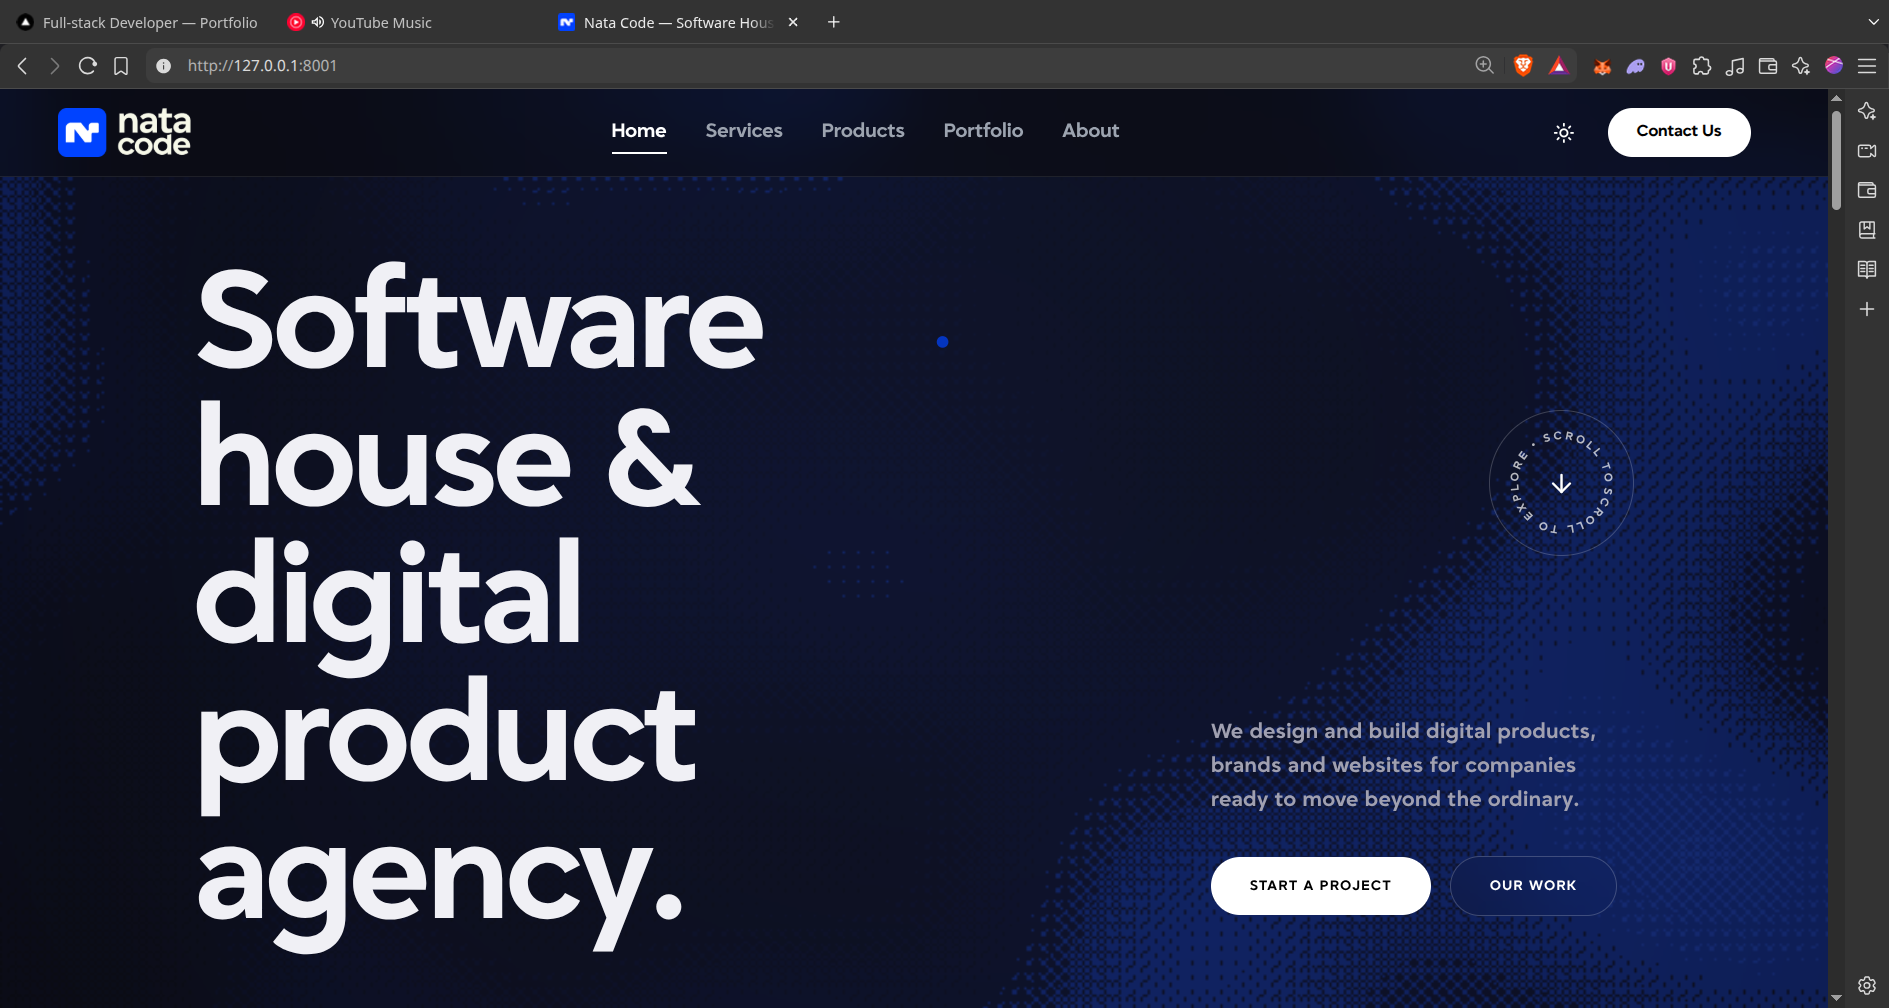
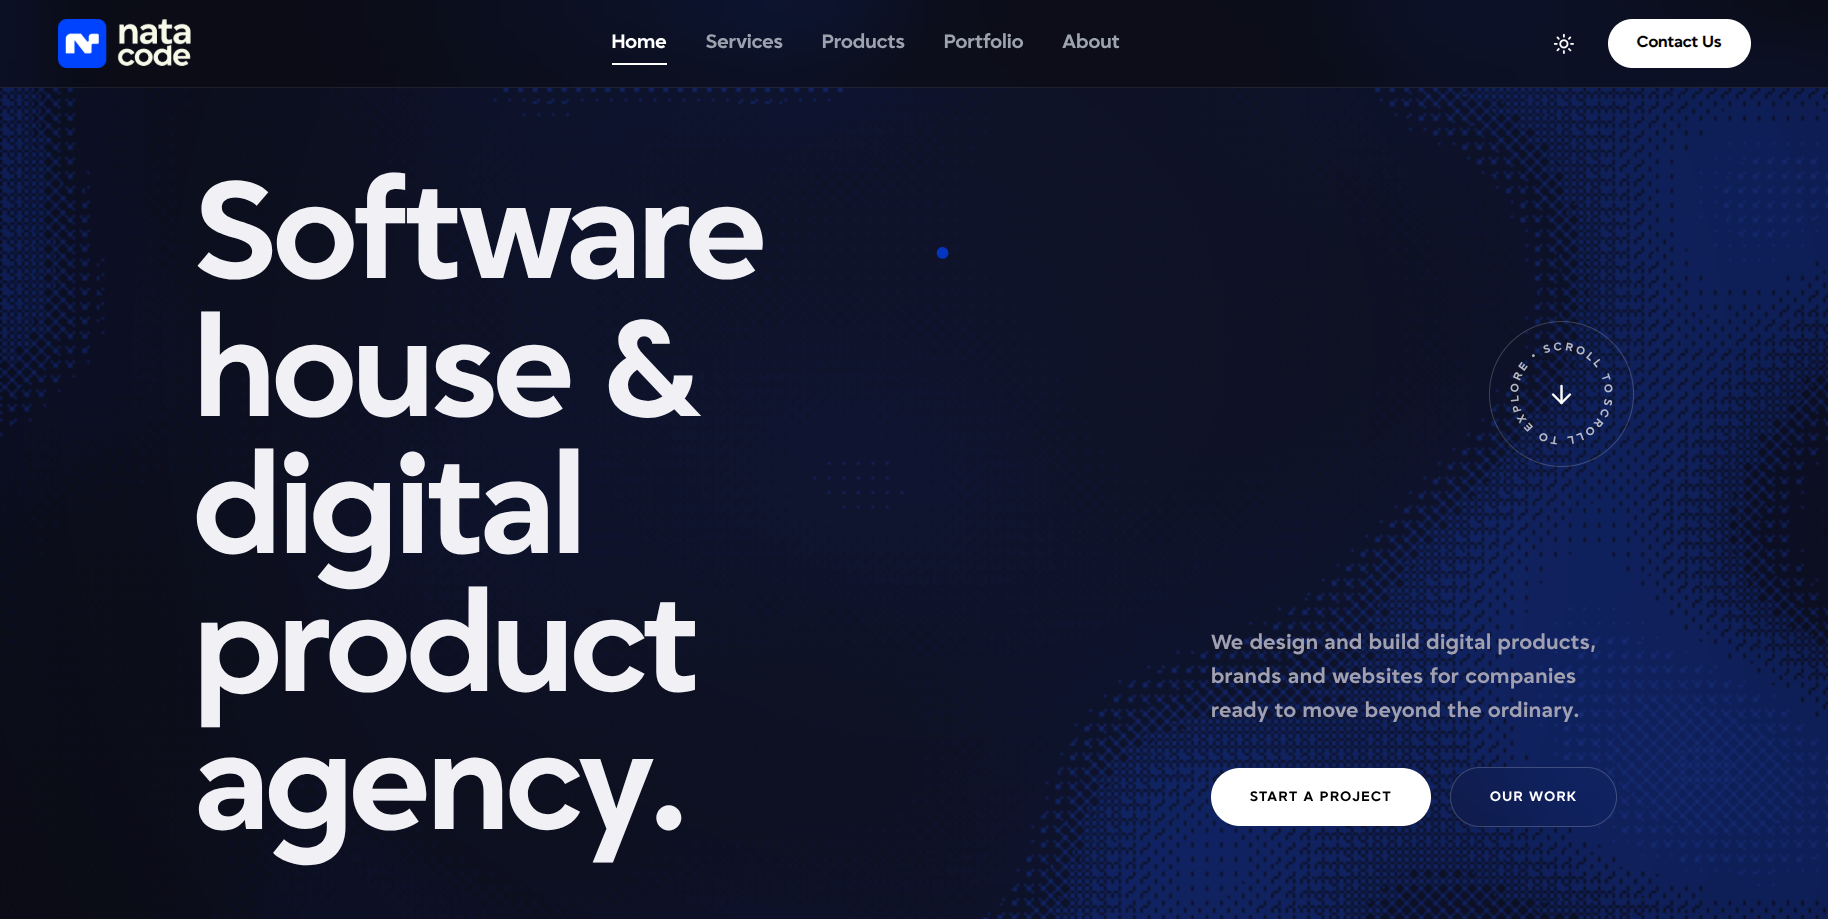
feat(work): present every project plate in a minimal browser frame
Crop the browser chrome and rounded borders baked into the Nata Code,
Acrylico, and Timnas screenshots so the frame is the only chrome.

diff --git a/app/work/[slug]/page.tsx b/app/work/[slug]/page.tsx
@@ -1,9 +1,9 @@
 import type { Metadata } from "next";
-import Image from "next/image";
 import Link from "next/link";
 import { notFound } from "next/navigation";
 import { BouncyLine } from "@/components/public/bouncy-line";
 import { JsonLd } from "@/components/public/json-ld";
+import { ProjectFrame } from "@/components/public/project-frame";
 import { Reveal } from "@/components/public/reveal";
 import { SiteFooter } from "@/components/public/site-footer";
 import { SiteHeader } from "@/components/public/site-header";
@@ -84,6 +84,14 @@ export default async function ProjectPage({
   );
 
   const siteUrl = getSiteUrl();
+  const siteHost = new URL(siteUrl).hostname;
+  const frameLabel = !project.live_url
+    ? "Private deployment"
+    : project.live_url.startsWith("/")
+      ? siteHost === "localhost"
+        ? "On this site"
+        : siteHost
+      : new URL(project.live_url).hostname;
   const technicalHighlights = parseTechnicalHighlights(
     project.technical_decisions,
   );
@@ -271,23 +279,20 @@ export default async function ProjectPage({
         {coverUrl && (
           <section className="mx-auto max-w-[1440px] px-5 sm:px-6 md:px-10">
             <Reveal>
-              <div className="group relative overflow-hidden border border-border bg-[#fafafa]">
-                <div className="relative w-full overflow-hidden">
-                  <Image
-                    src={coverUrl}
-                    alt={project.title}
-                    width={1800}
-                    height={1125}
-                    className="w-full h-auto object-contain transition-transform duration-700 ease-out group-hover:scale-[1.012]"
-                    sizes="(max-width: 1440px) 100vw, 1440px"
-                    priority
-                  />
-                </div>
-                <div className="flex flex-wrap items-center justify-between gap-2 border-t border-border px-4 py-2.5 sm:px-5 sm:py-3 text-[11px] font-medium tracking-[0.2em] uppercase text-muted">
-                  <span>Plate 01 — Overview</span>
-                  <span className="truncate max-w-[200px] sm:max-w-none">{project.title}</span>
-                </div>
-              </div>
+              <ProjectFrame
+                src={coverUrl}
+                alt={project.title}
+                label={frameLabel}
+                priority
+                footer={
+                  <div className="flex flex-wrap items-center justify-between gap-2 border-t border-border px-4 py-2.5 sm:px-5 sm:py-3 text-[11px] font-medium tracking-[0.2em] uppercase text-muted">
+                    <span>Plate 01 — Overview</span>
+                    <span className="truncate max-w-[200px] sm:max-w-none">
+                      {project.title}
+                    </span>
+                  </div>
+                }
+              />
             </Reveal>
           </section>
         )}
@@ -452,18 +457,11 @@ export default async function ProjectPage({
                     const plateNumber = String(idx + 2).padStart(2, "0");
                     return (
                       <figure key={m.id} className="group">
-                        <div className="relative overflow-hidden border border-border bg-[#fafafa]">
-                          <div className="relative w-full overflow-hidden">
-                            <Image
-                              src={url}
-                              alt={m.caption ?? project.title}
-                              width={1800}
-                              height={1125}
-                              className="w-full h-auto object-contain transition-transform duration-700 ease-out group-hover:scale-[1.012]"
-                              sizes="(max-width: 1440px) 100vw, 1440px"
-                            />
-                          </div>
-                        </div>
+                        <ProjectFrame
+                          src={url}
+                          alt={m.caption ?? project.title}
+                          label={frameLabel}
+                        />
                         {m.caption && (
                           <figcaption className="mt-3 sm:mt-4 flex flex-col sm:flex-row sm:items-baseline justify-between gap-1.5 sm:gap-4 border-b border-border pb-3 sm:pb-4 text-xs tracking-normal text-muted">
                             <span className="font-medium uppercase tracking-[0.2em] text-foreground shrink-0">

diff --git a/components/public/project-frame.tsx b/components/public/project-frame.tsx
@@ -1,0 +1,62 @@
+import Image from "next/image";
+import type { ReactNode } from "react";
+
+interface ProjectFrameProps {
+  src: string;
+  alt: string;
+  /** Address shown in the frame bar — a real hostname or a plain status. */
+  label: string;
+  footer?: ReactNode;
+  priority?: boolean;
+}
+
+const WINDOW_CONTROLS = (
+  <svg
+    width="36"
+    height="8"
+    viewBox="0 0 36 8"
+    fill="none"
+    aria-hidden="true"
+    className="shrink-0 text-neutral-300"
+  >
+    <circle cx="4" cy="4" r="3.5" fill="currentColor" />
+    <circle cx="18" cy="4" r="3.5" fill="currentColor" />
+    <circle cx="32" cy="4" r="3.5" fill="currentColor" />
+  </svg>
+);
+
+/**
+ * Presents a product screenshot inside a minimal browser frame so every
+ * project image reads as one consistent plate.
+ */
+export function ProjectFrame({
+  src,
+  alt,
+  label,
+  footer,
+  priority = false,
+}: ProjectFrameProps) {
+  return (
+    <div className="group relative overflow-hidden border border-border bg-[#fafafa]">
+      <div className="flex items-center gap-3 border-b border-border bg-white px-3 py-2 sm:px-4">
+        {WINDOW_CONTROLS}
+        <span className="min-w-0 flex-1 truncate text-center text-[10px] font-medium tracking-[0.16em] uppercase text-muted">
+          {label}
+        </span>
+        <span aria-hidden="true" className="w-9 shrink-0" />
+      </div>
+      <div className="relative w-full overflow-hidden">
+        <Image
+          src={src}
+          alt={alt}
+          width={1800}
+          height={1125}
+          className="h-auto w-full object-contain transition-transform duration-700 ease-out group-hover:scale-[1.012]"
+          sizes="(max-width: 1440px) 100vw, 1440px"
+          priority={priority}
+        />
+      </div>
+      {footer}
+    </div>
+  );
+}
